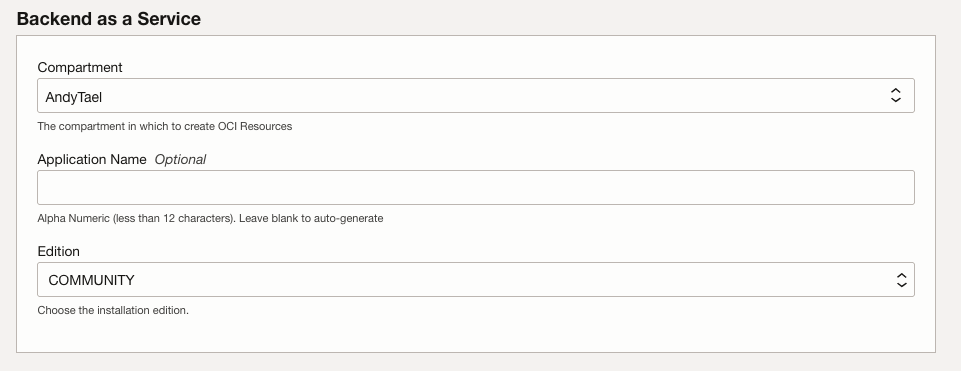
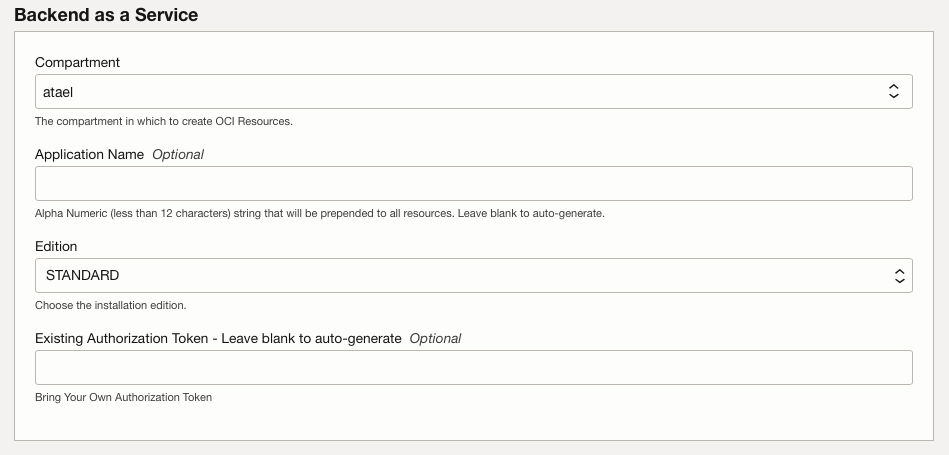
setup update

diff --git a/docs-source/spring/content/setup/_index.md b/docs-source/spring/content/setup/_index.md
@@ -89,6 +89,13 @@ resources:
 
 Oracle Backend for Spring Boot and Microservices is available in the [OCI Marketplace](https://cloudmarketplace.oracle.com/marketplace/en_US/listing/138899911).
 
+- [Prerequisites](#prerequisites)
+- [Summary of Components](#summary-of-components)
+- [Overview of the Setup Process](#overview-of-the-setup-process)
+- [Set Up the OCI Environment](#set-up-the-oci-environment)
+- [Set Up the Local Machine](#set-up-the-local-machine)
+- [Access information and passwords from the OCI Console](#access-information-and-passwords-from-the-oci-console)
+
 ## Prerequisites
 
 You must meet the following prerequisites to use Oracle Backend for Spring Boot and Microservices. You need:
@@ -178,6 +185,7 @@ To set up the OCI environment, process these steps:
     - `Edition` : Select between *COMMUNITY* and *STANDARD* Edition.
         - *COMMUNITY* - for developers for quick start to testing Spring Boot Microservices with an integrated backend. Teams can start with the deployment and scale up as processing demand grows. Community support only.
         - *STANDARD* - focused for pre-prod and production environments with an emphasis on deployment, scaling, and high availability. Oracle support is included with a Oracle Database support agreement. All features for developers are the same so start here if you’re porting an existing Spring Boot application stack and expect to get into production soon.  This edition allows for additional Bring Your Own (BYO) capabilities.
+    - `Existing Authorization Token` (optional) - Enter an existing Authorization token. If left empty the token will be created. **NOTE:** You must have one free OCI auth token (note that the maximum is two per user). You can *NOT* use someone elses token.
 
         | Edition   | Parse Platform | BYO Network  | BYO Database     | Production Vault | Registry Scanning |
         |-----------|----------------|--------------|------------------|------------------| ------------------|
